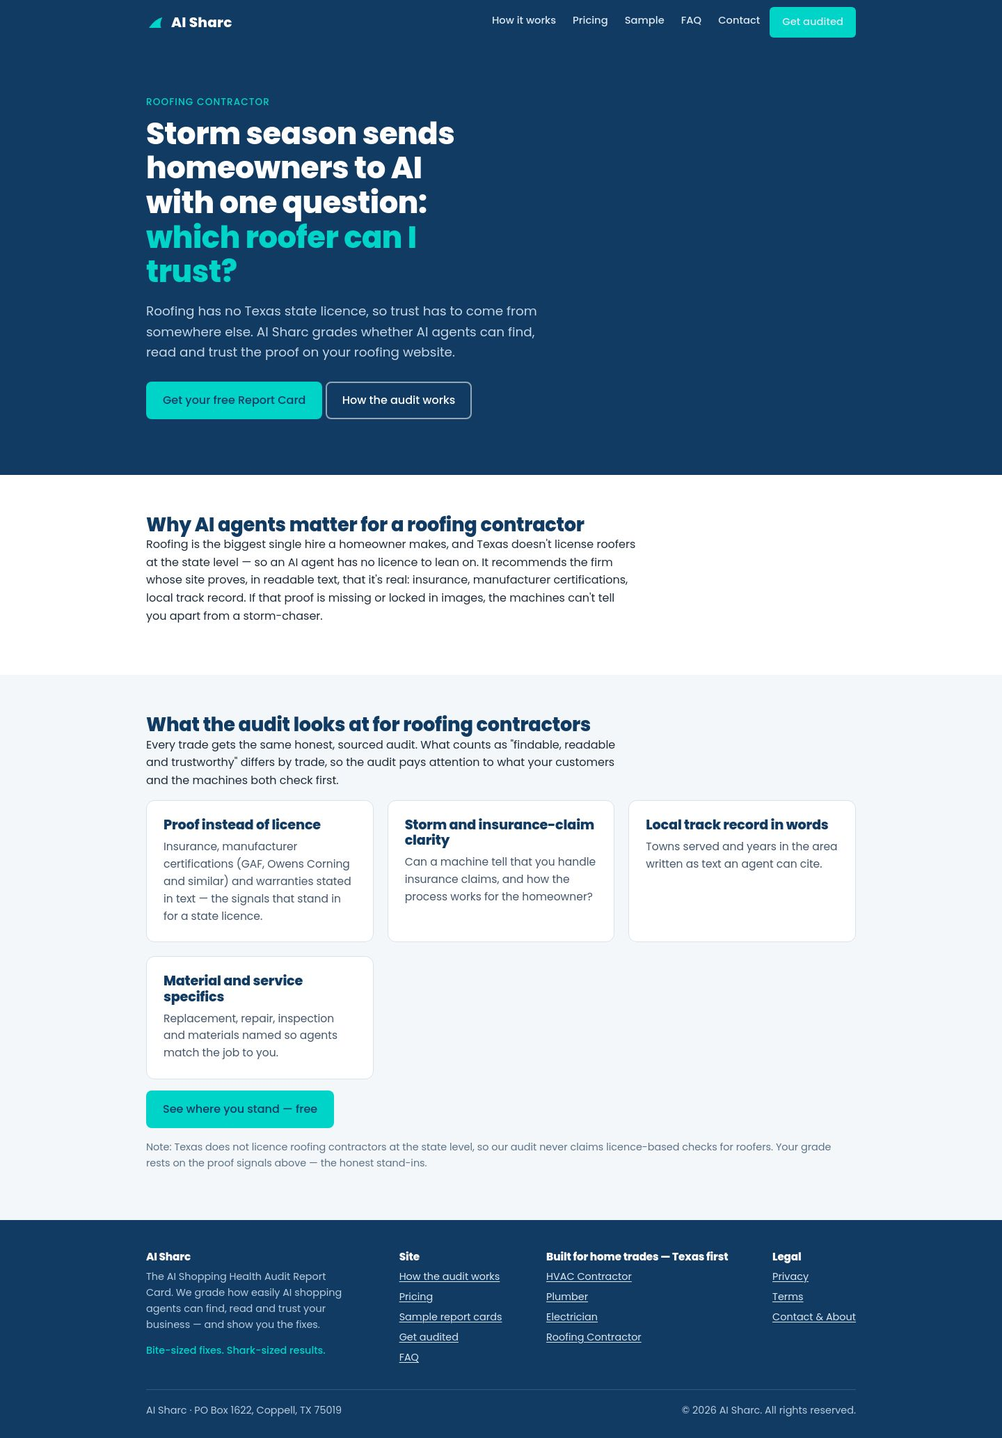
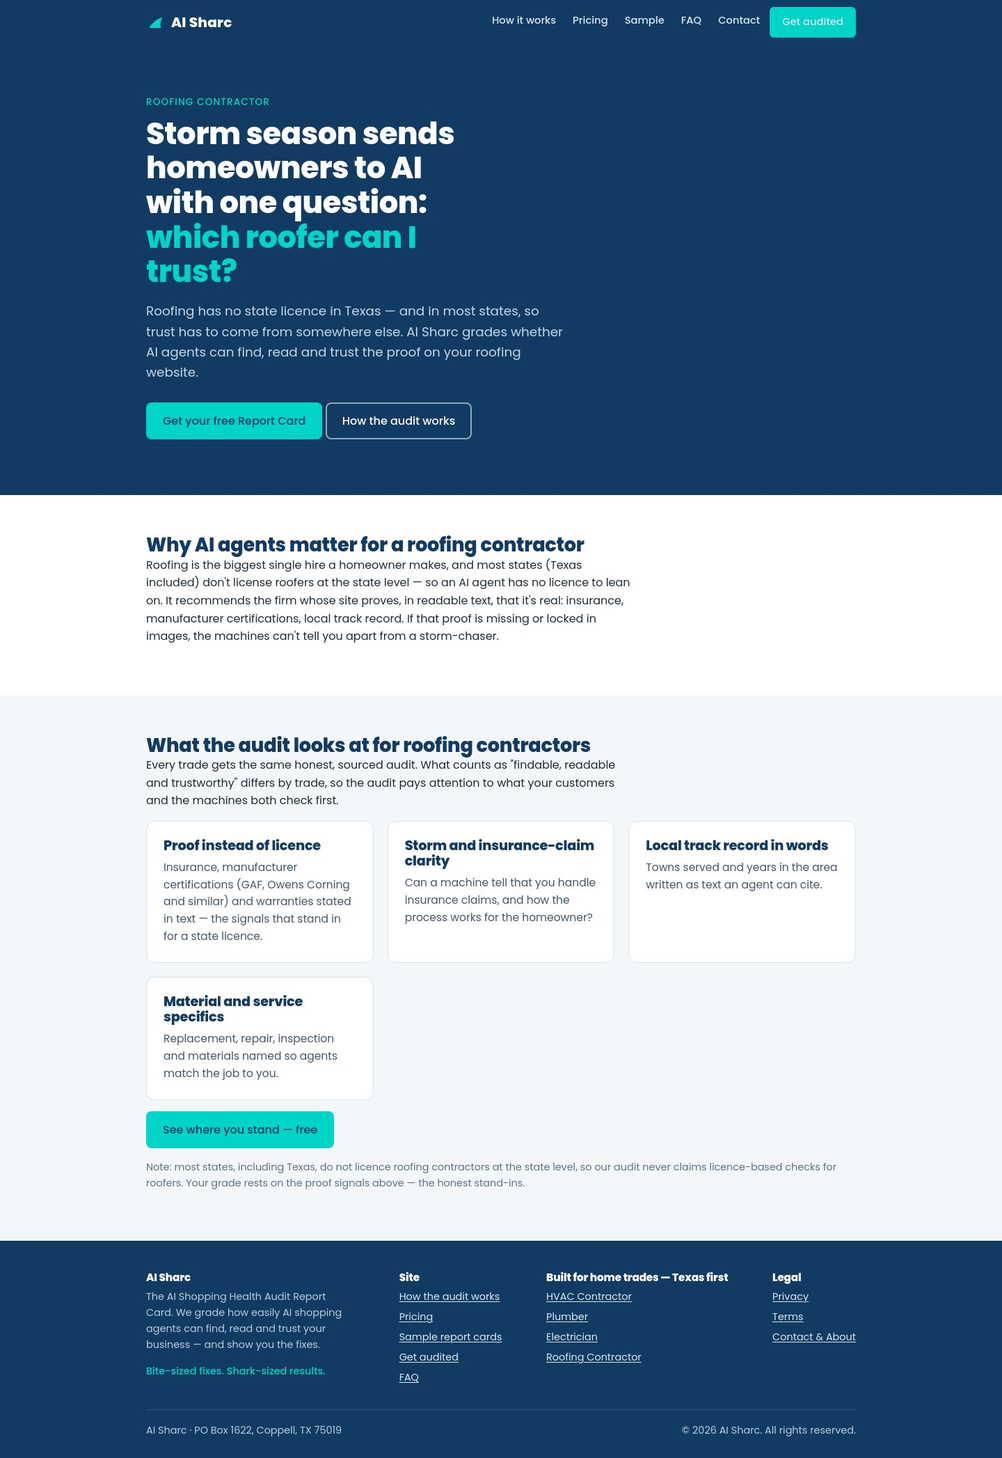
copy: drop Texas from trade titles/descs and roofing specifics; Texas-led framing only

diff --git a/site/roofing-contractor.html b/site/roofing-contractor.html
@@ -3,23 +3,23 @@
 <head>
 <meta charset="utf-8">
 <meta name="viewport" content="width=device-width, initial-scale=1">
-<title>AI Audit for Roofing Contractors in Texas — AI Sharc Report Card</title>
-<meta name="description" content="Free AI-readiness Report Card for Texas roofing contractors. See if AI agents can find, read and trust your roofing website — graded A–F, every finding cited.">
+<title>AI Audit for Roofing Contractors — AI Sharc Report Card</title>
+<meta name="description" content="Free AI-readiness Report Card for roofing contractors. See if AI agents can find, read and trust your roofing website — graded A–F, every finding cited.">
 <link rel="canonical" href="https://aisharc.com/roofing-contractor.html">
 <link rel="icon" type="image/svg+xml" href="assets/favicon.svg">
 <link rel="icon" type="image/png" sizes="32x32" href="assets/favicon-32.png">
 <link rel="apple-touch-icon" href="assets/apple-touch-icon.png">
 <meta property="og:type" content="website">
 <meta property="og:site_name" content="AI Sharc">
-<meta property="og:title" content="AI Audit for Roofing Contractors in Texas — AI Sharc Report Card">
-<meta property="og:description" content="Free AI-readiness Report Card for Texas roofing contractors. See if AI agents can find, read and trust your roofing website — graded A–F, every finding cited.">
+<meta property="og:title" content="AI Audit for Roofing Contractors — AI Sharc Report Card">
+<meta property="og:description" content="Free AI-readiness Report Card for roofing contractors. See if AI agents can find, read and trust your roofing website — graded A–F, every finding cited.">
 <meta property="og:url" content="https://aisharc.com/roofing-contractor.html">
 <meta property="og:image" content="https://aisharc.com/assets/social-share-1200x630.png">
 <meta property="og:image:width" content="1200">
 <meta property="og:image:height" content="630">
 <meta name="twitter:card" content="summary_large_image">
-<meta name="twitter:title" content="AI Audit for Roofing Contractors in Texas — AI Sharc Report Card">
-<meta name="twitter:description" content="Free AI-readiness Report Card for Texas roofing contractors. See if AI agents can find, read and trust your roofing website — graded A–F, every finding cited.">
+<meta name="twitter:title" content="AI Audit for Roofing Contractors — AI Sharc Report Card">
+<meta name="twitter:description" content="Free AI-readiness Report Card for roofing contractors. See if AI agents can find, read and trust your roofing website — graded A–F, every finding cited.">
 <meta name="twitter:image" content="https://aisharc.com/assets/social-share-1200x630.png">
 <link rel="stylesheet" href="assets/css/main.css">
 </head>
@@ -37,16 +37,16 @@
 <section class="hero"><div class="wrap">
 <p style="text-transform:uppercase;letter-spacing:0.08em;font-size:0.85rem;color:var(--teal);font-weight:500;margin:0 0 10px">Roofing Contractor</p>
 <h1>Storm season sends homeowners to AI with one question: <span class="accent">which roofer can I trust?</span></h1>
-<p class="lead">Roofing has no Texas state licence, so trust has to come from somewhere else. AI Sharc grades whether AI agents can find, read and trust the proof on your roofing website.</p>
+<p class="lead">Roofing has no state licence in Texas — and in most states, so trust has to come from somewhere else. AI Sharc grades whether AI agents can find, read and trust the proof on your roofing website.</p>
 <p><a class="btn btn-teal" href="get-audited.html">Get your free Report Card</a> <a class="btn btn-ghost" href="how-it-works.html">How the audit works</a></p>
 </div></section><section><div class="wrap"><h2>Why AI agents matter for a roofing contractor</h2>
-<p style="max-width:70ch">Roofing is the biggest single hire a homeowner makes, and Texas doesn't license roofers at the state level — so an AI agent has no licence to lean on. It recommends the firm whose site proves, in readable text, that it's real: insurance, manufacturer certifications, local track record. If that proof is missing or locked in images, the machines can't tell you apart from a storm-chaser.</p></div></section><section class="alt"><div class="wrap"><h2>What the audit looks at for roofing contractors</h2>
+<p style="max-width:70ch">Roofing is the biggest single hire a homeowner makes, and most states (Texas included) don't license roofers at the state level — so an AI agent has no licence to lean on. It recommends the firm whose site proves, in readable text, that it's real: insurance, manufacturer certifications, local track record. If that proof is missing or locked in images, the machines can't tell you apart from a storm-chaser.</p></div></section><section class="alt"><div class="wrap"><h2>What the audit looks at for roofing contractors</h2>
 <p style="max-width:70ch">Every trade gets the same honest, sourced audit. What counts as "findable,
 readable and trustworthy" differs by trade, so the audit pays attention to what your customers and
 the machines both check first.</p>
 <div class="grid g3"><div class="card"><h3>Proof instead of licence</h3><p>Insurance, manufacturer certifications (GAF, Owens Corning and similar) and warranties stated in text — the signals that stand in for a state licence.</p></div><div class="card"><h3>Storm and insurance-claim clarity</h3><p>Can a machine tell that you handle insurance claims, and how the process works for the homeowner?</p></div><div class="card"><h3>Local track record in words</h3><p>Towns served and years in the area written as text an agent can cite.</p></div><div class="card"><h3>Material and service specifics</h3><p>Replacement, repair, inspection and materials named so agents match the job to you.</p></div></div>
 <p style="margin-top:16px"><a class="btn btn-teal" href="get-audited.html">See where you stand &mdash; free</a></p>
-<p class="note">Note: Texas does not licence roofing contractors at the state level, so our audit never claims licence-based checks for roofers. Your grade rests on the proof signals above — the honest stand-ins.</p></div></section>
+<p class="note">Note: most states, including Texas, do not licence roofing contractors at the state level, so our audit never claims licence-based checks for roofers. Your grade rests on the proof signals above — the honest stand-ins.</p></div></section>
 </main>
 <footer class="site-footer">
   <div class="wrap">

diff --git a/site/index.html b/site/index.html
@@ -4,7 +4,7 @@
 <meta charset="utf-8">
 <meta name="viewport" content="width=device-width, initial-scale=1">
 <title>AI Sharc — Is your store ready for the machines that shop?</title>
-<meta name="description" content="Free AI-readiness Report Card for Texas home trades. AI Sharc grades how easily AI shopping agents can find, read and trust your website — and shows you the fixes.">
+<meta name="description" content="Free AI-readiness Report Card for home-trade contractors. AI Sharc grades how easily AI shopping agents can find, read and trust your website — and shows you the fixes.">
 <link rel="canonical" href="https://aisharc.com/">
 <link rel="icon" type="image/svg+xml" href="assets/favicon.svg">
 <link rel="icon" type="image/png" sizes="32x32" href="assets/favicon-32.png">
@@ -12,14 +12,14 @@
 <meta property="og:type" content="website">
 <meta property="og:site_name" content="AI Sharc">
 <meta property="og:title" content="AI Sharc — Is your store ready for the machines that shop?">
-<meta property="og:description" content="Free AI-readiness Report Card for Texas home trades. AI Sharc grades how easily AI shopping agents can find, read and trust your website — and shows you the fixes.">
+<meta property="og:description" content="Free AI-readiness Report Card for home-trade contractors. AI Sharc grades how easily AI shopping agents can find, read and trust your website — and shows you the fixes.">
 <meta property="og:url" content="https://aisharc.com/">
 <meta property="og:image" content="https://aisharc.com/assets/social-share-1200x630.png">
 <meta property="og:image:width" content="1200">
 <meta property="og:image:height" content="630">
 <meta name="twitter:card" content="summary_large_image">
 <meta name="twitter:title" content="AI Sharc — Is your store ready for the machines that shop?">
-<meta name="twitter:description" content="Free AI-readiness Report Card for Texas home trades. AI Sharc grades how easily AI shopping agents can find, read and trust your website — and shows you the fixes.">
+<meta name="twitter:description" content="Free AI-readiness Report Card for home-trade contractors. AI Sharc grades how easily AI shopping agents can find, read and trust your website — and shows you the fixes.">
 <meta name="twitter:image" content="https://aisharc.com/assets/social-share-1200x630.png">
 <link rel="stylesheet" href="assets/css/main.css">
 </head>
@@ -62,7 +62,7 @@ you existed.</p></div></section><section class="alt"><div class="wrap">
   <div class="card"><span class="badge">$99 introductory</span><h3>2. Final Report Card</h3>
   <p>The full deep audit: your complete graded card, every finding with its source, and your fix list.
   Includes monitoring so you can watch the grade move.</p></div>
-  <div class="card"><span class="badge">Built for Texas home trades</span><h3>3. Fix and watch it climb</h3>
+  <div class="card"><span class="badge">Built for home trades &mdash; Texas first</span><h3>3. Fix and watch it climb</h3>
   <p>Work the fixes. Your monitoring subscription keeps checking, so you see the grade respond as your
   site becomes easier for AI agents to read and trust.</p></div>
 </div>

diff --git a/site/hvac-contractor.html b/site/hvac-contractor.html
@@ -3,23 +3,23 @@
 <head>
 <meta charset="utf-8">
 <meta name="viewport" content="width=device-width, initial-scale=1">
-<title>AI Audit for HVAC Contractors in Texas — AI Sharc Report Card</title>
-<meta name="description" content="Free AI-readiness Report Card for Texas HVAC contractors. See if AI shopping agents can find, read and trust your site — graded A–F, every finding sourced.">
+<title>AI Audit for HVAC Contractors — AI Sharc Report Card</title>
+<meta name="description" content="Free AI-readiness Report Card for HVAC contractors. See if AI shopping agents can find, read and trust your site — graded A–F, every finding sourced.">
 <link rel="canonical" href="https://aisharc.com/hvac-contractor.html">
 <link rel="icon" type="image/svg+xml" href="assets/favicon.svg">
 <link rel="icon" type="image/png" sizes="32x32" href="assets/favicon-32.png">
 <link rel="apple-touch-icon" href="assets/apple-touch-icon.png">
 <meta property="og:type" content="website">
 <meta property="og:site_name" content="AI Sharc">
-<meta property="og:title" content="AI Audit for HVAC Contractors in Texas — AI Sharc Report Card">
-<meta property="og:description" content="Free AI-readiness Report Card for Texas HVAC contractors. See if AI shopping agents can find, read and trust your site — graded A–F, every finding sourced.">
+<meta property="og:title" content="AI Audit for HVAC Contractors — AI Sharc Report Card">
+<meta property="og:description" content="Free AI-readiness Report Card for HVAC contractors. See if AI shopping agents can find, read and trust your site — graded A–F, every finding sourced.">
 <meta property="og:url" content="https://aisharc.com/hvac-contractor.html">
 <meta property="og:image" content="https://aisharc.com/assets/social-share-1200x630.png">
 <meta property="og:image:width" content="1200">
 <meta property="og:image:height" content="630">
 <meta name="twitter:card" content="summary_large_image">
-<meta name="twitter:title" content="AI Audit for HVAC Contractors in Texas — AI Sharc Report Card">
-<meta name="twitter:description" content="Free AI-readiness Report Card for Texas HVAC contractors. See if AI shopping agents can find, read and trust your site — graded A–F, every finding sourced.">
+<meta name="twitter:title" content="AI Audit for HVAC Contractors — AI Sharc Report Card">
+<meta name="twitter:description" content="Free AI-readiness Report Card for HVAC contractors. See if AI shopping agents can find, read and trust your site — graded A–F, every finding sourced.">
 <meta name="twitter:image" content="https://aisharc.com/assets/social-share-1200x630.png">
 <link rel="stylesheet" href="assets/css/main.css">
 </head>

diff --git a/site/plumber.html b/site/plumber.html
@@ -3,23 +3,23 @@
 <head>
 <meta charset="utf-8">
 <meta name="viewport" content="width=device-width, initial-scale=1">
-<title>AI Audit for Plumbers in Texas — AI Sharc Report Card</title>
-<meta name="description" content="Free AI-readiness Report Card for Texas plumbers. Find out if AI assistants can find, read and trust your website — graded A–F, every finding cited with its source.">
+<title>AI Audit for Plumbers — AI Sharc Report Card</title>
+<meta name="description" content="Free AI-readiness Report Card for plumbers. Find out if AI assistants can find, read and trust your website — graded A–F, every finding cited with its source.">
 <link rel="canonical" href="https://aisharc.com/plumber.html">
 <link rel="icon" type="image/svg+xml" href="assets/favicon.svg">
 <link rel="icon" type="image/png" sizes="32x32" href="assets/favicon-32.png">
 <link rel="apple-touch-icon" href="assets/apple-touch-icon.png">
 <meta property="og:type" content="website">
 <meta property="og:site_name" content="AI Sharc">
-<meta property="og:title" content="AI Audit for Plumbers in Texas — AI Sharc Report Card">
-<meta property="og:description" content="Free AI-readiness Report Card for Texas plumbers. Find out if AI assistants can find, read and trust your website — graded A–F, every finding cited with its source.">
+<meta property="og:title" content="AI Audit for Plumbers — AI Sharc Report Card">
+<meta property="og:description" content="Free AI-readiness Report Card for plumbers. Find out if AI assistants can find, read and trust your website — graded A–F, every finding cited with its source.">
 <meta property="og:url" content="https://aisharc.com/plumber.html">
 <meta property="og:image" content="https://aisharc.com/assets/social-share-1200x630.png">
 <meta property="og:image:width" content="1200">
 <meta property="og:image:height" content="630">
 <meta name="twitter:card" content="summary_large_image">
-<meta name="twitter:title" content="AI Audit for Plumbers in Texas — AI Sharc Report Card">
-<meta name="twitter:description" content="Free AI-readiness Report Card for Texas plumbers. Find out if AI assistants can find, read and trust your website — graded A–F, every finding cited with its source.">
+<meta name="twitter:title" content="AI Audit for Plumbers — AI Sharc Report Card">
+<meta name="twitter:description" content="Free AI-readiness Report Card for plumbers. Find out if AI assistants can find, read and trust your website — graded A–F, every finding cited with its source.">
 <meta name="twitter:image" content="https://aisharc.com/assets/social-share-1200x630.png">
 <link rel="stylesheet" href="assets/css/main.css">
 </head>

diff --git a/site/electrician.html b/site/electrician.html
@@ -3,23 +3,23 @@
 <head>
 <meta charset="utf-8">
 <meta name="viewport" content="width=device-width, initial-scale=1">
-<title>AI Audit for Electricians in Texas — AI Sharc Report Card</title>
-<meta name="description" content="Free AI-readiness Report Card for Texas electricians. See whether AI shopping agents can find, read and trust your site — graded A–F, every finding sourced.">
+<title>AI Audit for Electricians — AI Sharc Report Card</title>
+<meta name="description" content="Free AI-readiness Report Card for electricians. See whether AI shopping agents can find, read and trust your site — graded A–F, every finding sourced.">
 <link rel="canonical" href="https://aisharc.com/electrician.html">
 <link rel="icon" type="image/svg+xml" href="assets/favicon.svg">
 <link rel="icon" type="image/png" sizes="32x32" href="assets/favicon-32.png">
 <link rel="apple-touch-icon" href="assets/apple-touch-icon.png">
 <meta property="og:type" content="website">
 <meta property="og:site_name" content="AI Sharc">
-<meta property="og:title" content="AI Audit for Electricians in Texas — AI Sharc Report Card">
-<meta property="og:description" content="Free AI-readiness Report Card for Texas electricians. See whether AI shopping agents can find, read and trust your site — graded A–F, every finding sourced.">
+<meta property="og:title" content="AI Audit for Electricians — AI Sharc Report Card">
+<meta property="og:description" content="Free AI-readiness Report Card for electricians. See whether AI shopping agents can find, read and trust your site — graded A–F, every finding sourced.">
 <meta property="og:url" content="https://aisharc.com/electrician.html">
 <meta property="og:image" content="https://aisharc.com/assets/social-share-1200x630.png">
 <meta property="og:image:width" content="1200">
 <meta property="og:image:height" content="630">
 <meta name="twitter:card" content="summary_large_image">
-<meta name="twitter:title" content="AI Audit for Electricians in Texas — AI Sharc Report Card">
-<meta name="twitter:description" content="Free AI-readiness Report Card for Texas electricians. See whether AI shopping agents can find, read and trust your site — graded A–F, every finding sourced.">
+<meta name="twitter:title" content="AI Audit for Electricians — AI Sharc Report Card">
+<meta name="twitter:description" content="Free AI-readiness Report Card for electricians. See whether AI shopping agents can find, read and trust your site — graded A–F, every finding sourced.">
 <meta name="twitter:image" content="https://aisharc.com/assets/social-share-1200x630.png">
 <link rel="stylesheet" href="assets/css/main.css">
 </head>

diff --git a/build/content_trade.py b/build/content_trade.py
@@ -26,8 +26,8 @@ the machines both check first.</p>
 TRADES = [
   dict(
     slug="hvac-contractor.html",
-    title="AI Audit for HVAC Contractors in Texas — AI Sharc Report Card",
-    desc="Free AI-readiness Report Card for Texas HVAC contractors. See if AI shopping agents can find, read and trust your site — graded A–F, every finding sourced.",
+    title="AI Audit for HVAC Contractors — AI Sharc Report Card",
+    desc="Free AI-readiness Report Card for HVAC contractors. See if AI shopping agents can find, read and trust your site — graded A–F, every finding sourced.",
     trade="HVAC Contractor",
     hero_h1="When an AC dies at 9pm, will the machines recommend <span class=\"accent\">you?</span>",
     hero_lead="Homeowners increasingly ask AI assistants who to call — in Texas first. AI Sharc grades how easily AI agents can find, read and trust your HVAC website — and hands you the fixes.",
@@ -44,8 +44,8 @@ TRADES = [
     ]),
   dict(
     slug="plumber.html",
-    title="AI Audit for Plumbers in Texas — AI Sharc Report Card",
-    desc="Free AI-readiness Report Card for Texas plumbers. Find out if AI assistants can find, read and trust your website — graded A–F, every finding cited with its source.",
+    title="AI Audit for Plumbers — AI Sharc Report Card",
+    desc="Free AI-readiness Report Card for plumbers. Find out if AI assistants can find, read and trust your website — graded A–F, every finding cited with its source.",
     trade="Plumber",
     hero_h1="The burst pipe won't wait. Neither will the homeowner asking AI <span class=\"accent\">who to call.</span>",
     hero_lead="Water emergencies are the fastest decisions a homeowner makes. AI Sharc grades whether AI agents can find, read and trust your plumbing website fast enough to recommend you.",
@@ -62,8 +62,8 @@ TRADES = [
     ]),
   dict(
     slug="electrician.html",
-    title="AI Audit for Electricians in Texas — AI Sharc Report Card",
-    desc="Free AI-readiness Report Card for Texas electricians. See whether AI shopping agents can find, read and trust your site — graded A–F, every finding sourced.",
+    title="AI Audit for Electricians — AI Sharc Report Card",
+    desc="Free AI-readiness Report Card for electricians. See whether AI shopping agents can find, read and trust your site — graded A–F, every finding sourced.",
     trade="Electrician",
     hero_h1="Panel upgrades, EV chargers, whole-home rewires — do the machines know <span class=\"accent\">you do that?</span>",
     hero_lead="Electrical work runs on trust. AI Sharc grades how easily AI agents can find, read and trust your electrician website when a homeowner asks who to hire.",
@@ -80,12 +80,12 @@ TRADES = [
     ]),
   dict(
     slug="roofing-contractor.html",
-    title="AI Audit for Roofing Contractors in Texas — AI Sharc Report Card",
-    desc="Free AI-readiness Report Card for Texas roofing contractors. See if AI agents can find, read and trust your roofing website — graded A–F, every finding cited.",
+    title="AI Audit for Roofing Contractors — AI Sharc Report Card",
+    desc="Free AI-readiness Report Card for roofing contractors. See if AI agents can find, read and trust your roofing website — graded A–F, every finding cited.",
     trade="Roofing Contractor",
     hero_h1="Storm season sends homeowners to AI with one question: <span class=\"accent\">which roofer can I trust?</span>",
-    hero_lead="Roofing has no Texas state licence, so trust has to come from somewhere else. AI Sharc grades whether AI agents can find, read and trust the proof on your roofing website.",
-    why="Roofing is the biggest single hire a homeowner makes, and Texas doesn't license roofers at the state level — so an AI agent has no licence to lean on. It recommends the firm whose site proves, in readable text, that it's real: insurance, manufacturer certifications, local track record. If that proof is missing or locked in images, the machines can't tell you apart from a storm-chaser.",
+    hero_lead="Roofing has no state licence in Texas — and in most states, so trust has to come from somewhere else. AI Sharc grades whether AI agents can find, read and trust the proof on your roofing website.",
+    why="Roofing is the biggest single hire a homeowner makes, and most states (Texas included) don't license roofers at the state level — so an AI agent has no licence to lean on. It recommends the firm whose site proves, in readable text, that it's real: insurance, manufacturer certifications, local track record. If that proof is missing or locked in images, the machines can't tell you apart from a storm-chaser.",
     what_looks=[
       ("Proof instead of licence",
        "Insurance, manufacturer certifications (GAF, Owens Corning and similar) and warranties stated in text — the signals that stand in for a state licence."),
@@ -96,7 +96,7 @@ TRADES = [
       ("Material and service specifics",
        "Replacement, repair, inspection and materials named so agents match the job to you."),
     ],
-    note="Note: Texas does not licence roofing contractors at the state level, so our audit never claims licence-based checks for roofers. Your grade rests on the proof signals above — the honest stand-ins.",
+    note="Note: most states, including Texas, do not licence roofing contractors at the state level, so our audit never claims licence-based checks for roofers. Your grade rests on the proof signals above — the honest stand-ins.",
   ),
 ]
 

diff --git a/build/build.py b/build/build.py
@@ -10,7 +10,7 @@ from build import content_legal as cl
 
 PAGES = [
     ("index.html", "AI Sharc — Is your store ready for the machines that shop?",
-     "Free AI-readiness Report Card for Texas home trades. AI Sharc grades how easily AI shopping agents can find, read and trust your website — and shows you the fixes.",
+     "Free AI-readiness Report Card for home-trade contractors. AI Sharc grades how easily AI shopping agents can find, read and trust your website — and shows you the fixes.",
      cp.home_body),
     ("get-audited.html", "Get Your Free AI Readiness Report Card — AI Sharc",
      "Submit your website and business email. Verify with one click and view your free Preliminary Report Card: your A–F grade, with sourced findings.",

diff --git a/build/content_pages.py b/build/content_pages.py
@@ -56,7 +56,7 @@ home_body += _sec("", '''
   <div class="card"><span class="badge">$99 introductory</span><h3>2. Final Report Card</h3>
   <p>The full deep audit: your complete graded card, every finding with its source, and your fix list.
   Includes monitoring so you can watch the grade move.</p></div>
-  <div class="card"><span class="badge">Built for Texas home trades</span><h3>3. Fix and watch it climb</h3>
+  <div class="card"><span class="badge">Built for home trades &mdash; Texas first</span><h3>3. Fix and watch it climb</h3>
   <p>Work the fixes. Your monitoring subscription keeps checking, so you see the grade respond as your
   site becomes easier for AI agents to read and trust.</p></div>
 </div>
